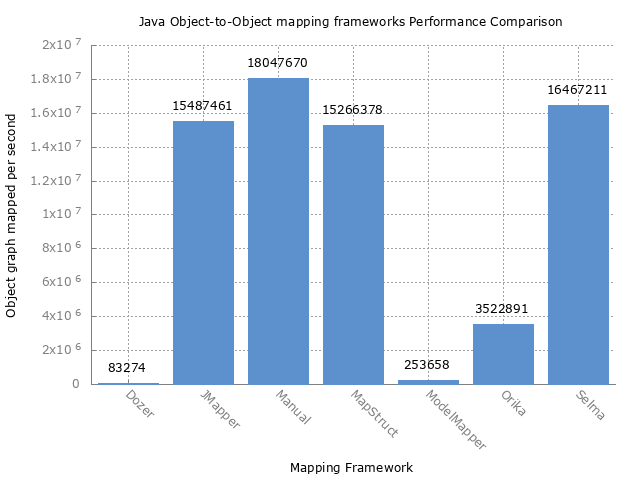
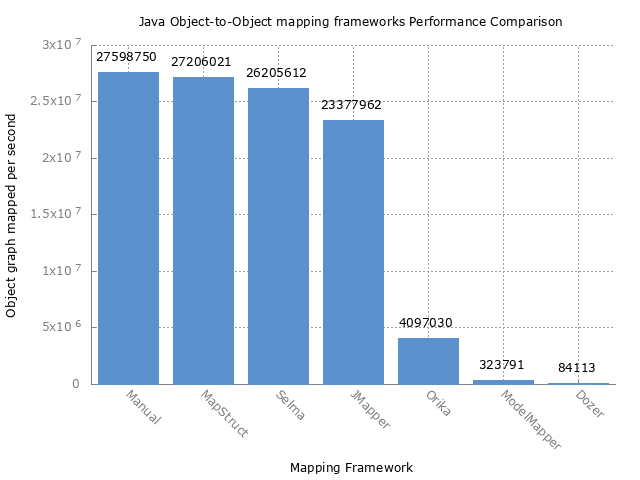
ManualMapper refactoring to keep the first place

diff --git a/src/main/java/com/javaetmoi/benchmark/mapping/mapper/manual/ManualMapper.java b/src/main/java/com/javaetmoi/benchmark/mapping/mapper/manual/ManualMapper.java
@@ -20,35 +20,23 @@ public final class ManualMapper implements OrderMapper {
         Customer customer = source.getCustomer();
         if (customer != null) {
             target.setCustomerName(customer.getName());
-            mapBillingAddress(target, customer.getBillingAddress());
-            mapShippingAddress(target, customer.getShippingAddress());
+            if (customer.getBillingAddress() != null) {
+                target.setBillingCity(customer.getBillingAddress().getCity());
+                target.setBillingStreetAddress(customer.getBillingAddress().getStreet());
+            }
+            if (customer.getShippingAddress() != null) {
+                target.setShippingCity(customer.getShippingAddress().getCity());
+                target.setShippingStreetAddress(customer.getShippingAddress().getStreet());
+            }
         }
-        mapProducts(source, target);
+        if (source.getProducts() != null) {
+            List<ProductDTO> targetProducts = new ArrayList<ProductDTO>(source.getProducts().size());
+            for (Product product : source.getProducts()) {
+                targetProducts.add(new ProductDTO(product.getName()));
+            }
+            target.setProducts(targetProducts);
+        }
         return target;
     }
 
-    private void mapShippingAddress(OrderDTO target, Address shippingAddress) {
-        if (shippingAddress != null) {
-            target.setShippingCity(shippingAddress.getCity());
-            target.setShippingStreetAddress(shippingAddress.getStreet());
-        }
-    }
-
-    private void mapBillingAddress(OrderDTO target, Address billingAddress) {
-        if (billingAddress != null) {
-            target.setBillingCity(billingAddress.getCity());
-            target.setBillingStreetAddress(billingAddress.getStreet());
-        }
-    }
-
-    private void mapProducts(Order source, OrderDTO target) {
-        if (source.getProducts() == null) {
-            return;
-        }
-        List<ProductDTO> targetProducts = new ArrayList<ProductDTO>(source.getProducts().size());
-        for (Product product : source.getProducts()) {
-            targetProducts.add(new ProductDTO(product.getName()));
-        }
-        target.setProducts(targetProducts);
-    }
 }

diff --git a/src/main/java/com/javaetmoi/benchmark/MapperBenchmark.java b/src/main/java/com/javaetmoi/benchmark/MapperBenchmark.java
@@ -27,7 +27,7 @@ import org.openjdk.jmh.runner.options.TimeValue;
 @State(Scope.Benchmark)
 public class MapperBenchmark {
 
-    @Param({"DozerMapper", "JMapperMapper", "ManualMapper", "MapStructMapper", "ModelMapper", "OrikaMapper",  "SelmaMapper"})
+    @Param({"Manual", "MapStruct",  "Selma", "JMapper", "Orika", "ModelMapper", "Dozer"})
     private String type;
 
     private OrderMapper mapper;
@@ -36,25 +36,25 @@ public class MapperBenchmark {
     @Setup(Level.Trial)
     public void setup(){
         switch (type) {
-            case "DozerMapper":
+            case "Dozer":
                 mapper = new DozerMapper();
                 break;
-            case "OrikaMapper":
+            case "Orika":
                 mapper = new OrikaMapper();
                 break;
             case "ModelMapper":
                 mapper = new ModelMapper();
                 break;
-            case "MapStructMapper":
+            case "MapStruct":
                 mapper = new MapStructMapper();
                 break;
-            case "SelmaMapper":
+            case "Selma":
                 mapper = new SelmaMapper();
                 break;
-            case "JMapperMapper":
+            case "JMapper":
                 mapper = new JMapperMapper();
                 break;
-            case "ManualMapper":
+            case "Manual":
                 mapper = new ManualMapper();
                 break;
             default:

diff --git a/readme.md b/readme.md
@@ -36,7 +36,7 @@ It includes combinations which usually appear in Java Beans, such as:
 
 ## Launch the benchmark
 
-_Pre-requisites: Maven 3.x and a JDK 6 (or above)_
+_Pre-requisites: Maven 3.x and a JDK 7 (or above)_
 
 ``git clone git://github.com/arey/java-object-mapper-benchmark.git``
 
@@ -65,27 +65,31 @@ Tests has been performed on:
         <th>Benchmark</th><th>Mode</th><th>Samples</th><th>Score</th><th>Margin error (+/-)</th><th>Units</th>
     </tr>
     <tr>
-        <th>Manual</th><td>thrpt</td><td>200</td><td>18 047 670</td><td>70 665</td><td>ops/s</td>
-    </tr>
-    <tr>
-        <th>Selma</th><td>thrpt</td><td>200</td><td>16 467 211</td><td>63 445</td><td>ops/s</td>
+        <th>Manual</th><td>thrpt</td><td>200</td><td>27 598 750</td><td>346 265</td><td>ops/s</td>
     </tr>
     <tr>        
-        <th>MapStruct</th><td>thrpt</td><td>200</td><td>15 266 378</td><td>125 660</td><td>ops/s</td>
+        <th>MapStruct</th><td>thrpt</td><td>200</td><td>27 206 021</td><td>133 009</td><td>ops/s</td>
     </tr>
     <tr>
-        <th>JMapper</th><td>thrpt</td><td>200</td><td>15 487 461</td><td>119 421</td><td>ops/s</td>
+        <th>Selma</th><td>thrpt</td><td>200</td><td>26 205 612</td><td>185 326</td><td>ops/s</td>
     </tr>
     <tr>
-        <th>Orika</th><td>thrpt</td><td>200</td><td>3 522 891</td><td>40 734</td><td>ops/s</td>
+        <th>JMapper</th><td>thrpt</td><td>200</td><td>23 377 962</td><td>124 537</td><td>ops/s</td>
+    </tr>
+    <tr>
+        <th>Orika</th><td>thrpt</td><td>200</td><td>4 097 030</td><td>21 220</td><td>ops/s</td>
     </tr>
     <tr>       
-        <th>ModelMaper</th><td>thrpt</td><td>200</td><td>253 658</td><td>2 197</td><td>ops/s</td>
+        <th>ModelMaper</th><td>thrpt</td><td>200</td><td>323 791</td><td>3 172</td><td>ops/s</td>
     </tr>
     <tr>
-        <th>Dozer</th><td>thrpt</td><td>200</td><td>83 274</td><td>724</td><td>ops/s</td>
+        <th>Dozer</th><td>thrpt</td><td>200</td><td>84 113</td><td>331</td><td>ops/s</td>
     </tr>
 </table>
+
+
+"Benchmark","Mode","Threads","Samples","Score","Score Error (99,9%)","Unit","Param: type"
+"com.javaetmoi.benchmark.MapperBenchmark.mapper","thrpt",1,200,"26095841,101453","245410,911251","ops/s",Selma
 
 ![Framework Comparison](results.png)
 
